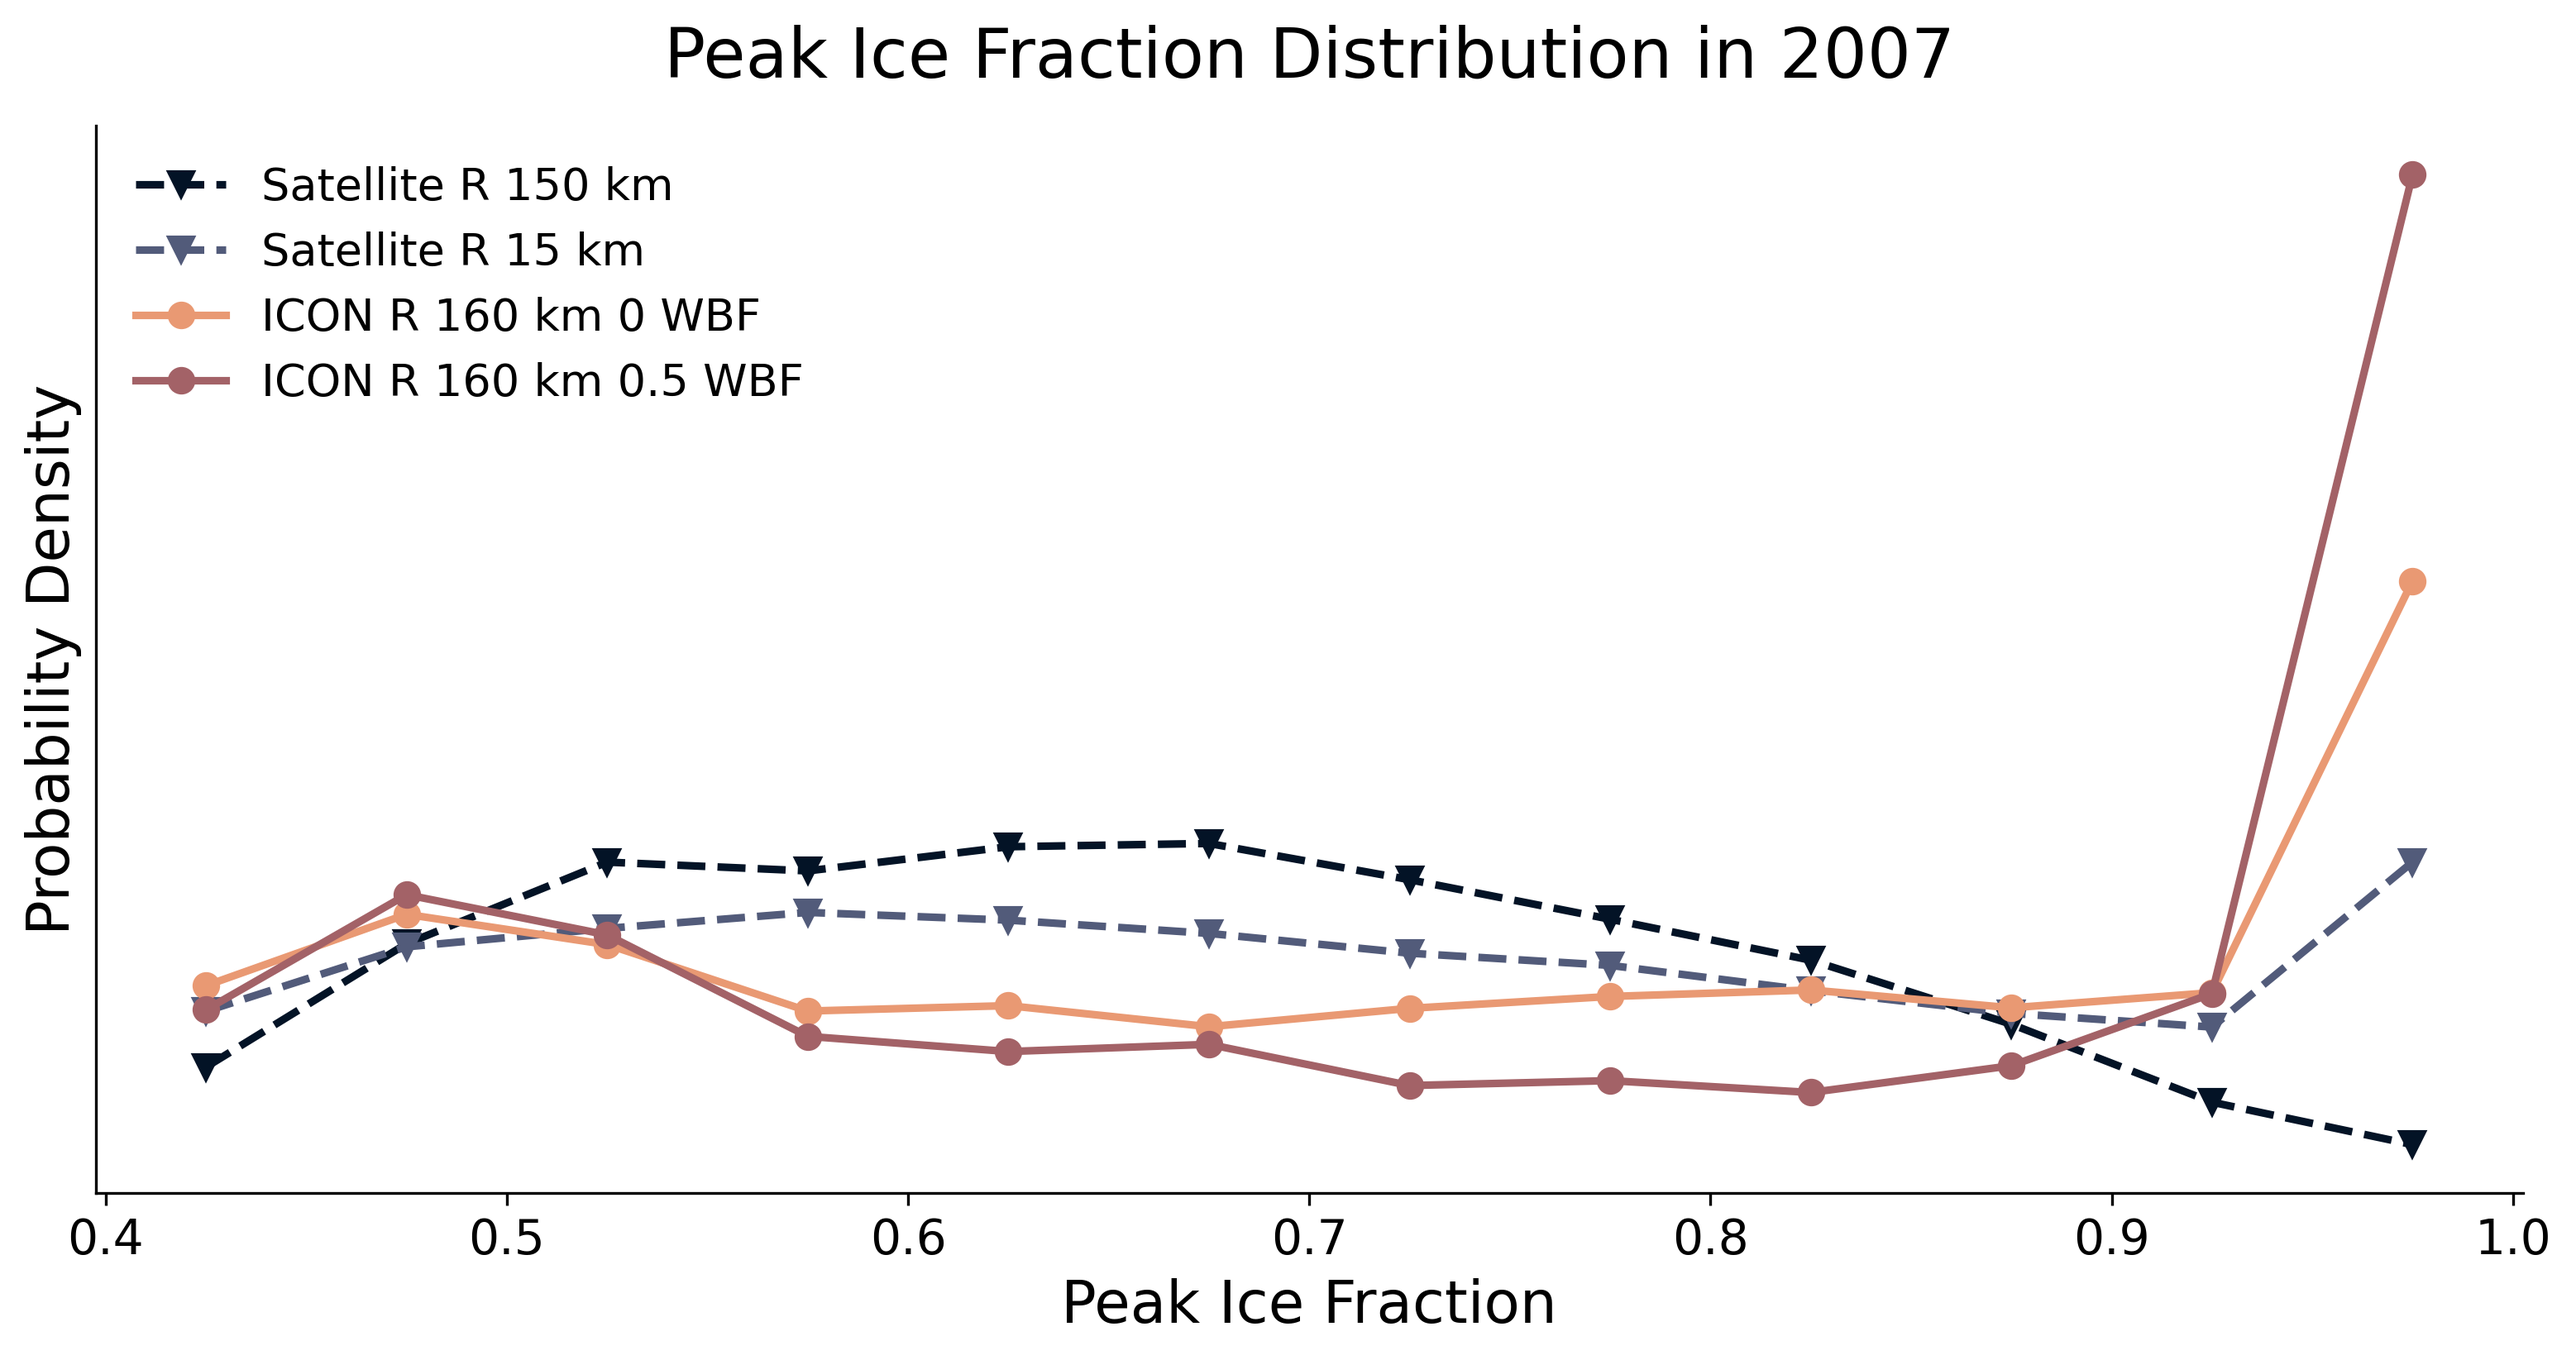
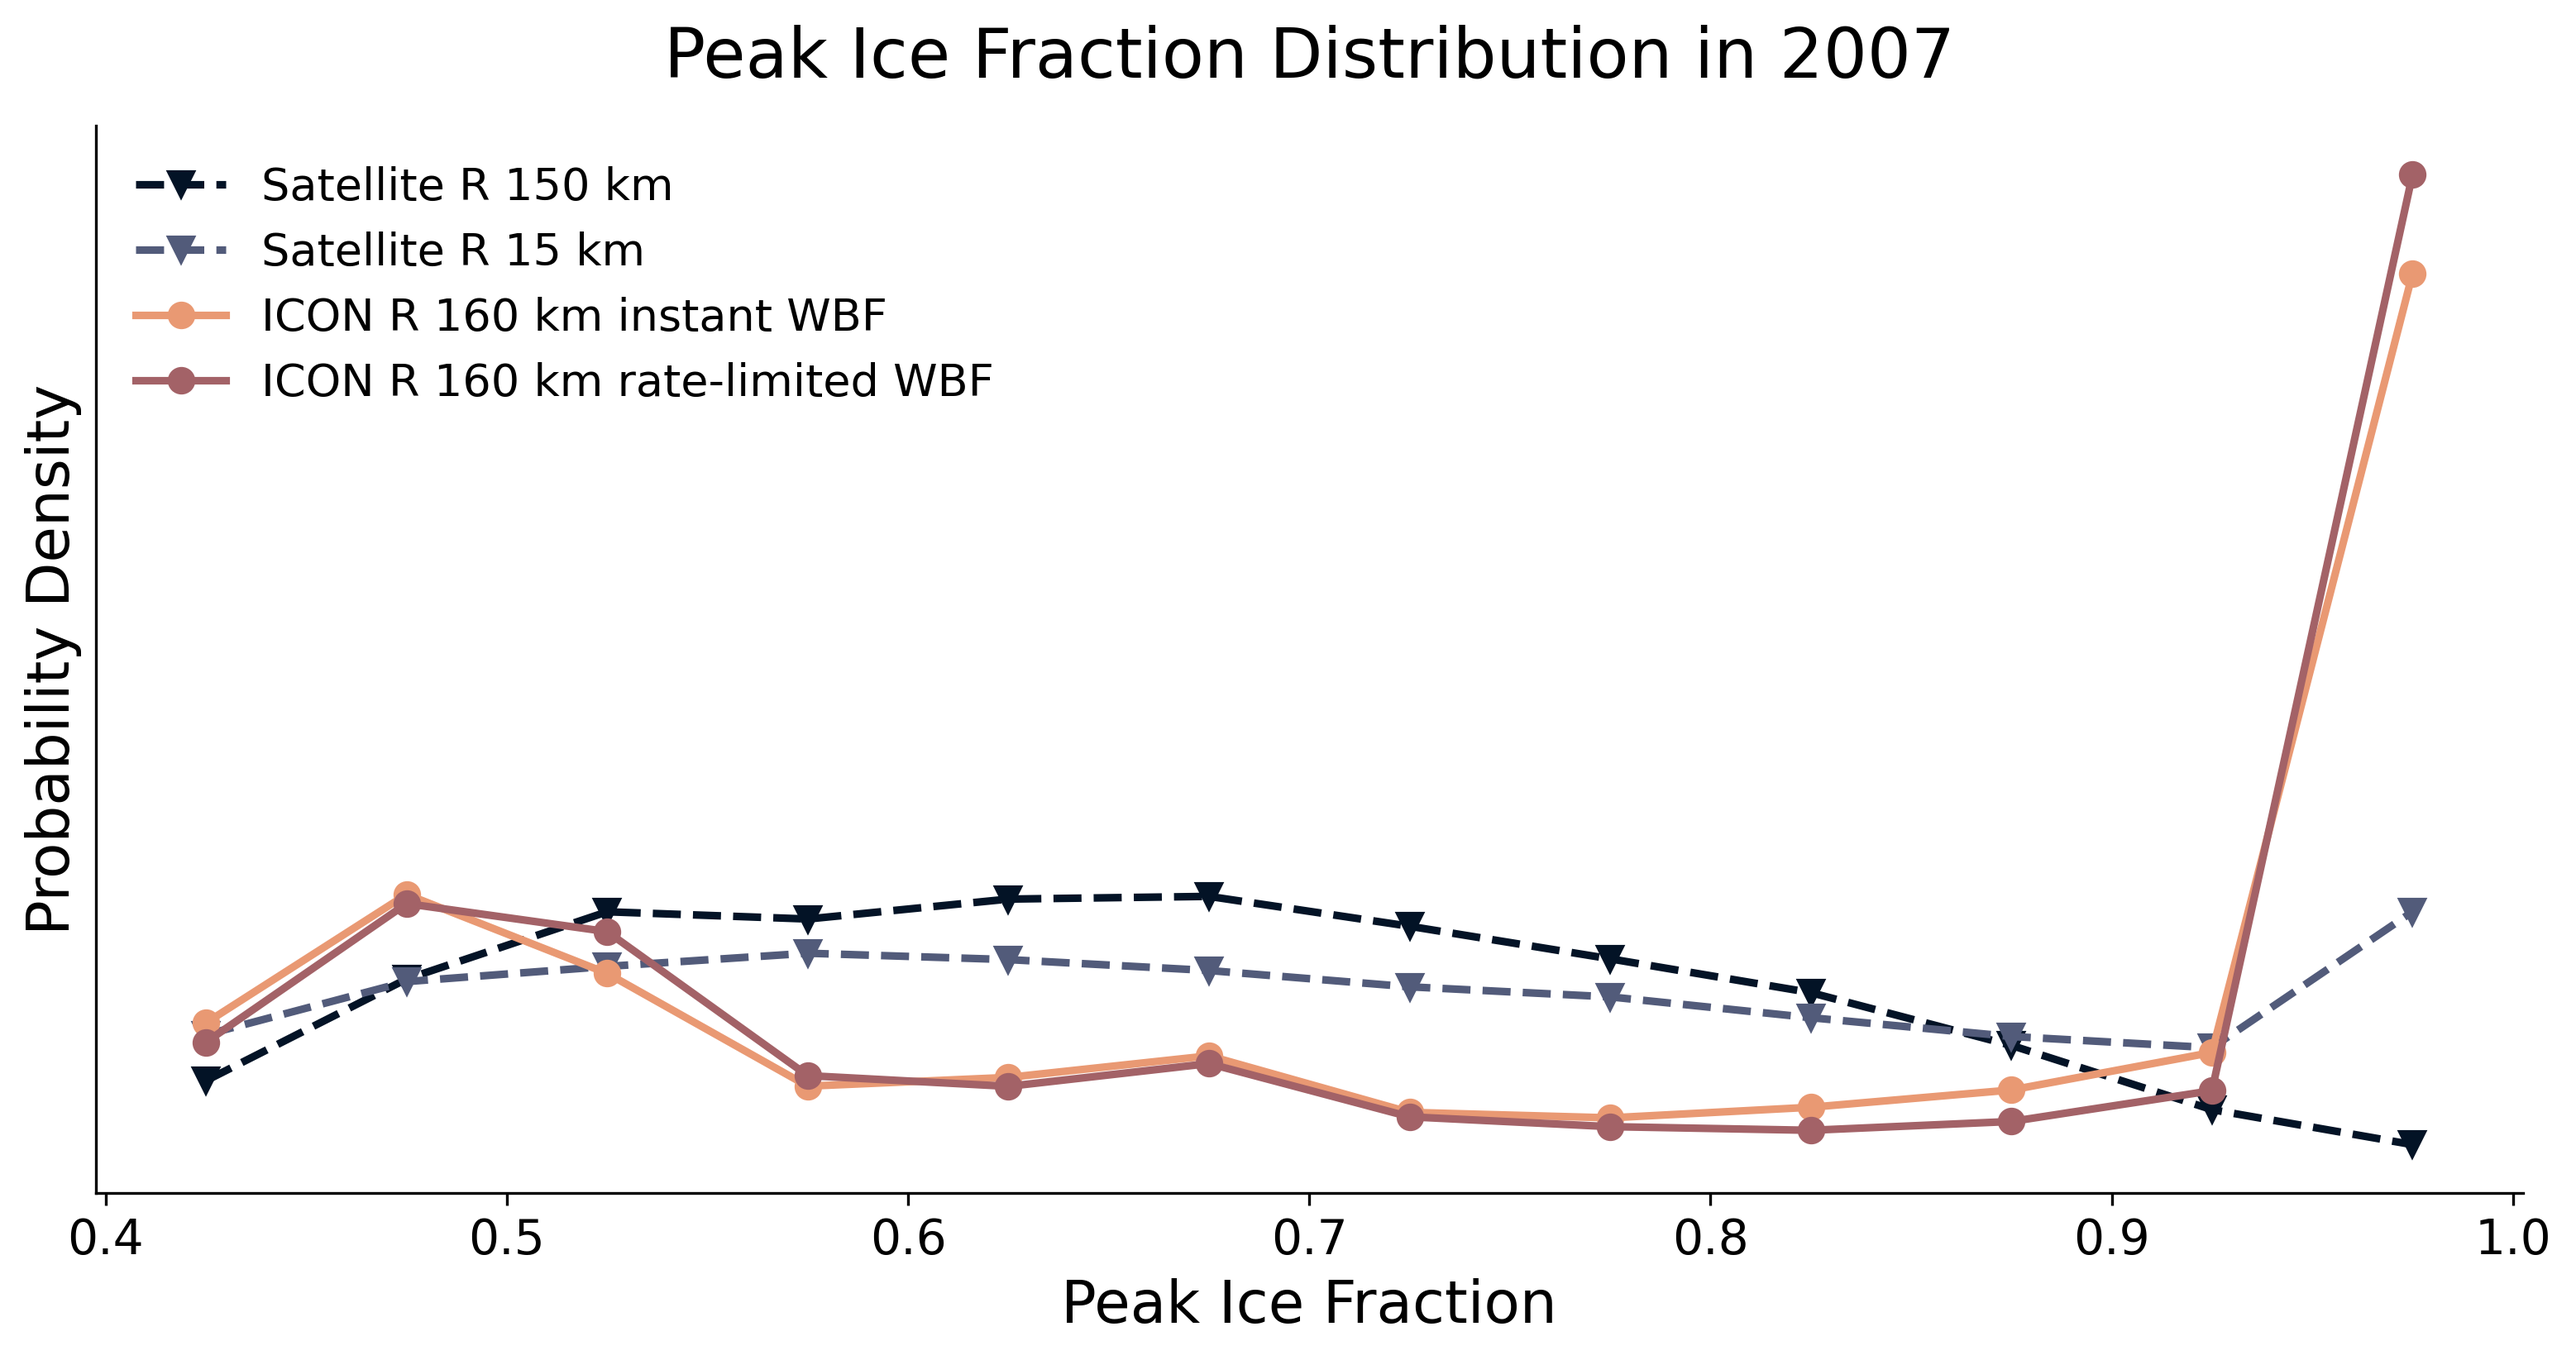
Addition of project progress md

Changed region(s): [[0.0623, 0.186, 0.9653, 0.8371], [0.218, 0.217, 0.3737, 0.31]]

diff --git a/Project_progress.md b/Project_progress.md
@@ -1,0 +1,94 @@
+# Progress and organisation for the Model-Satellite Intercomparison Project (MSGI)
+
+## I. Background
+
+**“How complete is cloud glaciation?” Nikolov, GRL, 2025**
+
+In a previous study, I tracked **mixed-phase stratiform cloud tops** using CLAAS-3 data, which is based on the SEVIRI instrument onboard Meteosat Second Generation satellites. For each pixel, the data provides binary information on whether the cloud top is in the ice or liquid phase.
+
+For each track, hereafter referred to as a **cloud**, I analysed the fraction of the cloud-top area in the ice phase at each timestep. I call this variable the **ice fraction**. It ranges from 0 to 1. A time series of ice fraction measurement gives information about the cloud top phase evolution.
+
+Within each time series, we detect periods of increasing ice fraction. If the ice fraction increases by more than 0.4 during one of these periods, we classify the event as **glaciation**. When a glaciation event is detected, we identify the maximum ice fraction reached during that period, which we call the **peak ice fraction**.
+
+**Our main result is that the peak ice fraction (IF) usually does not exceed 0.9: glaciation is incomplete. Instead, glaciation events typically peak at lower values, with a median peak IF of 0.7.** A cloud can glaciate multiple times, but this occurs rarely.
+
+Tracking is performed at a resolution of approximately 15 km per pixel, every 15 minutes, for latitudes from 30° to 72° S/N and longitudes from -72° to 72° E.
+
+### Tracking methodology
+
+We selected six mixed-phase temperature bins: 0 to -6 °C, -6 to -12 °C, -12 to -18 °C, and so on down to -36 °C. From the CLAAS image at each timestep we get all the cloud tops in each temperature bin. Within each single-bin image, we then identify continuous objects and track them over time to obtain clouds. As stated in the paper:
+
+> When given a time series (image of cloud tops in a single temperature bin), the tracker first identifies continuous regions of connected cloudy pixels as features. It then searches for spatial overlap between the features identified in consecutive timesteps. If a sufficient fraction of two such features overlap, they are marked as parts of the same track. Merging multiple features into a single track defines a “cloud” in the PE dataset. In this study, we therefore define a cloud as a time series of overlapping features, each representing a contiguous area of similar CTT.
+
+The code for this processing is available on [GitHub](https://github.com/DragomirNikolov/Glaciation_time_estimator) as an installable Python library. More importantly, all tracked-cloud data are available as pandas DataFrames on [Zenodo](https://doi.org/10.5281/zenodo.17861542) and can be opened with `pd.read_parquet()`.
+
+## II. Model-Satellite Intercomparison Project (MSGI)
+
+MSGI is devoted to answering three questions that arise from **“How complete is cloud glaciation?”**
+
+Because we needed cloud observations that are consistent in time and space, cloud tracking in **“How complete is cloud glaciation?”** is based on the CLAAS-3 dataset. This geostationary passive radiometer dataset has several disadvantages. First, the cloud mask and cloud-phase outputs are relatively low quality: they are noisy, unreliable, and likely biased towards the water phase. Second, they only describe cloud-top properties. We wanted to address these two limitations one by one.
+
+### Is glaciation really incomplete?
+
+#### Done
+
+To answer this question, we colocate the tracked clouds in CLAAS-3 with measurements from two other datasets based on low-Earth-orbit (LEO) satellites: MODIS and DARDAR. LEO satellites irregularly observe narrow swaths of Earth, so we usually only have colocated observations from one timestep of a few cloud track. The colocations also do not cover the entire cloud, but only a line through it.
+
+Nevertheless, we find that the IF measured by the different satellites is positively correlated. Peaks of IF in CLAAS-3 are also peaks of IF in MODIS and DARDAR. DARDAR predicts an overall higher ice fraction at every timestep. From its retrieval algorithm, we know that DARDAR is biased towards ice. MODIS and CLAAS, on the other hand, are biased towards liquid. We can therefore use the satellite measurements as reasonable bounds for what we want to confirm.
+
+**Between 45% and 80% of clouds do not glaciate completely (IF > 0.9). Thus, the results from the first paper are confirmed.**
+
+#### To-do
+
+Optional: A team in Leipzig is tracking clouds again in the CLAAS-3 data, but they do not split the frame into individual temperature bins. Instead, they track clouds from the original CLAAS-3 image. I want to run my glaciation detection algorithms on their clouds and see whether my results remain the same.
+
+### Why is glaciation incomplete?
+
+After glaciation peaks, there is a drop in ice fraction. We suspect that this is due to ice crystal sedimentation. Using the DARDAR colocated measurements described above, we are now looking for increases in IWC 900 m below the cloud top at the timestep after peak IF. 900 m corresponds to 15 minutes multiplied by an assumed fall speed of 1 m/s.
+
+#### Done
+
+I have the code to extract the below-cloud-top data at the relevant locations, as well as the locations of the colocated pixels for one year.
+
+#### To-do
+
+Perform a statistical analysis to prove or disprove whether sedimentation or an increase in WBF below the cloud top explains the observed decrease in ice fraction.
+
+### How do models simulate glaciation?
+
+#### Done
+
+Finally, we look at how glaciation is simulated within ICON-HAM. In ICON, we obtain snapshots of the cloud tops every 15 minutes by setting a TWC threshold of `1e-5`. For each pixel in the output, we get the cloud-top phase (`IWC/TWC` at the top cell) and cloud-top temperature (air temperature at the top cell). This data is then remapped to a grid equivalent to the CLAAS grid, and the exact same tracking procedure as for the CLAAS-3 dataset is applied (see [Background](#i-background)).
+
+To understand the results of this analysis, we use several metrics:
+
+1. **Peak ice fraction**: the maximum ice fraction reached during a glaciation event.
+2. **Glaciation time**: in a time series, the time between a peak IF and the preceding IF minimum.
+3. **Glaciation magnitude**: the difference between the peak IF and the preceding IF minimum.
+4. **Glaciation occurrence rate**: the fraction of clouds that experience glaciation at all. Since we look for IF increases of 0.4 or more, we usually filter out clouds that never go below an IF of 0.6, because glaciation cannot be detected there.
+5. **Number of glaciations per cloud**: as mentioned above, multiple glaciations per cloud are extremely rare in the observations (<1%). In the model, however, this is not the case: 10–15% of clouds glaciate more than once.
+
+From the current analysis, we can conclude that in the main branch of ICON-HAM at R2B4, glaciation occurs:
+
+1. **Too completely**: peak IF in the model is higher than observed in satellites.
+2. **Too fast**: glaciation time is shorter than in satellite observations.
+3. **Too often**: the occurrence rate in the model is much higher than in satellite observations.
+
+#### To-do
+
+What remains is to tune the relevant processes so that the model statistics better match the observations. All of the tasks below have been started, but we do not yet have conclusive results.
+
+To do this, we should:
+
+1. Test both versions of the WBF scheme: instant WBF (v1), rate-limited WBF (v3), and fully implicit WBF when available (v4). At R2B4:
+    1. Rate limited WBF slows glaciation and brings glaciation time closer to observations
+    2. Leads to a more complete glaciation (higher peak IF) - this is surprising and I still can't understand it.
+2. Test these at different resolutions. The analysis is already done for one year at R2B4 and will be done by 01.06 for R2B5.
+3. Test with different values of `fwbf` . Tests have been done at fwbf=1.0, 0.5, and 0. The lower it is, the better the results on all metrics. Even at `fwbf = 0`, too many clouds glaciate completely. 
+4. Look at efects of model tuning on other variables. TOA Radiation and cloud cover.
+5. Try to run the simulations nudged
+
+## Notes
+
+1. In general, I test on data from 2007. For the final paper, however, I want to use three years of data (2007, 2008, and 2009) for all analyses.
+2. All simulation up until now have been ran without nudging. 
